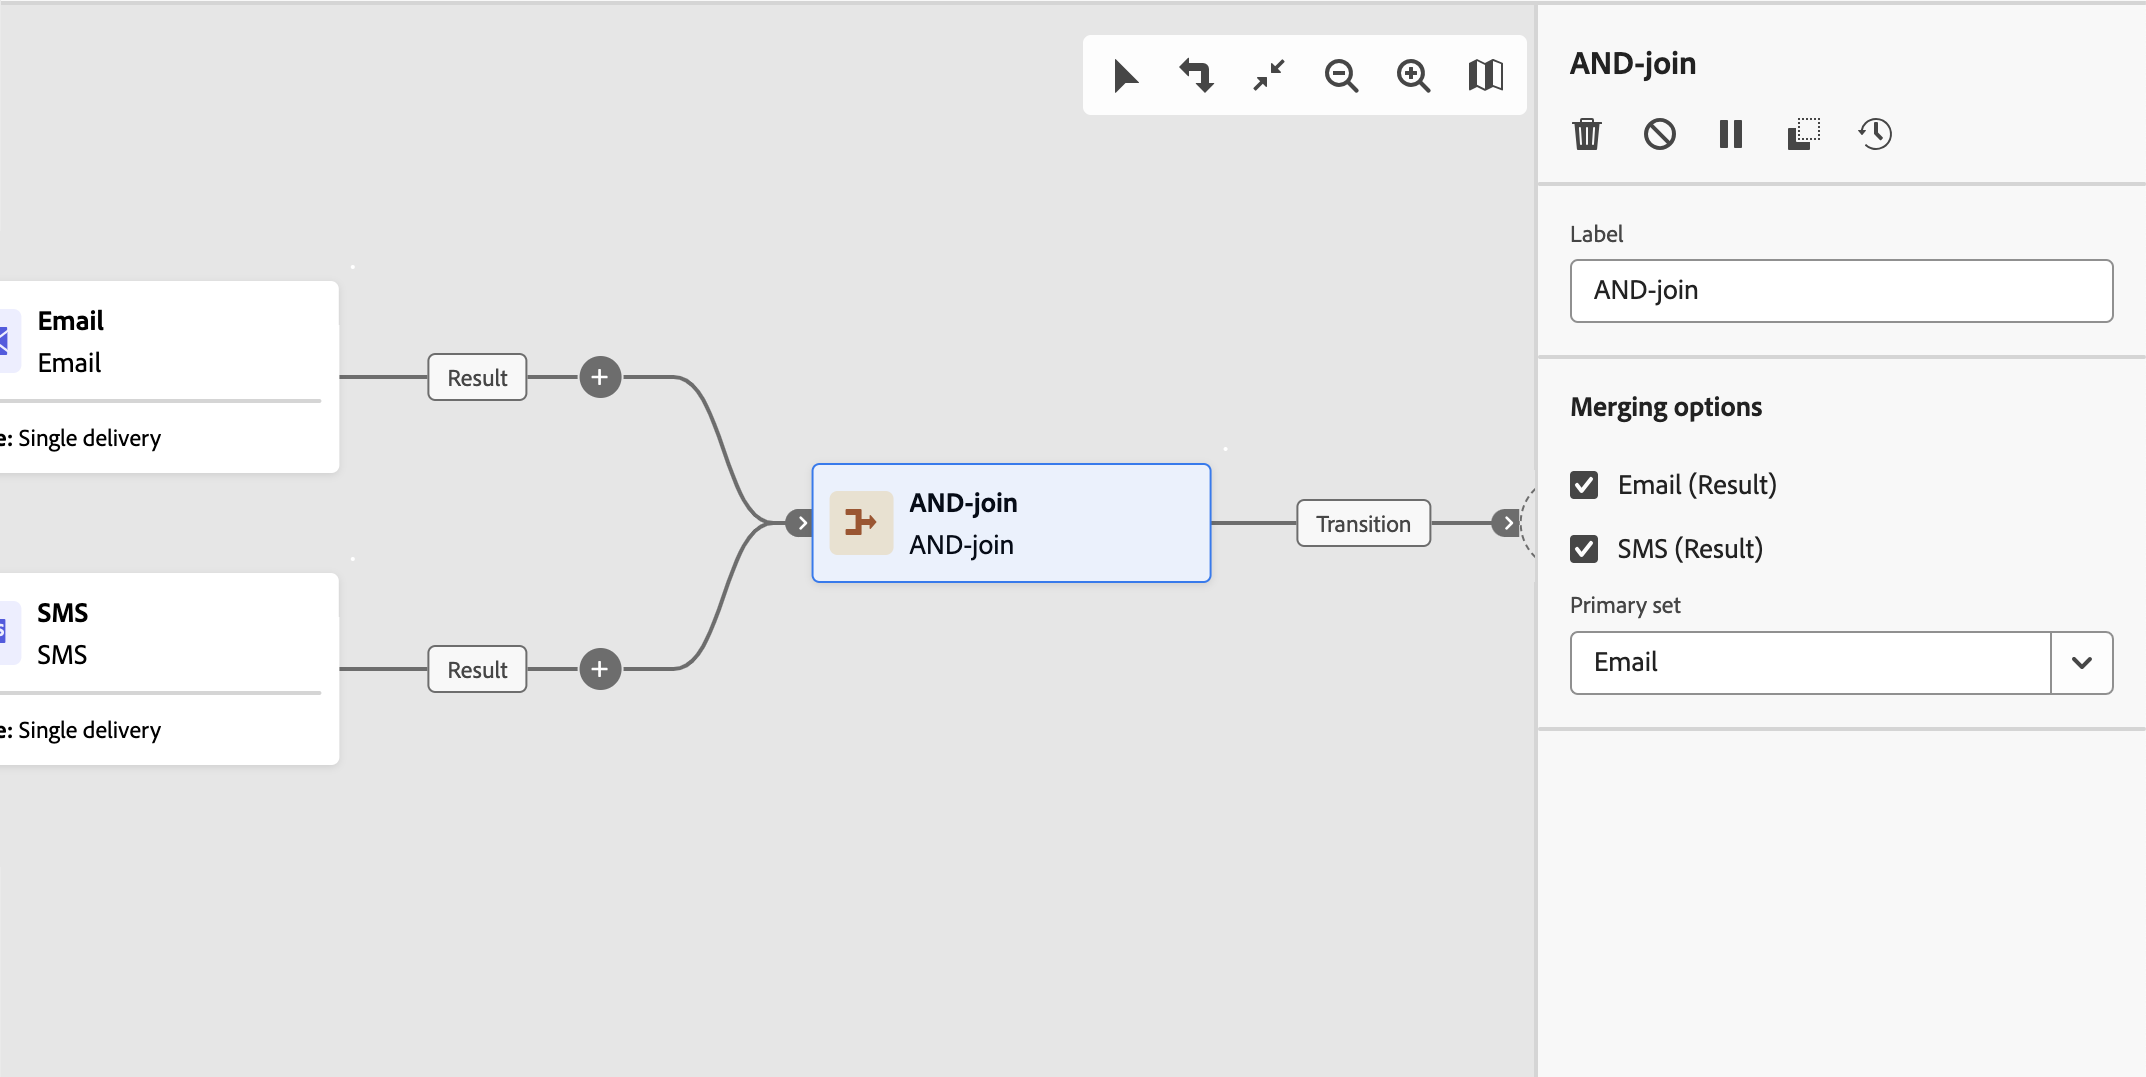
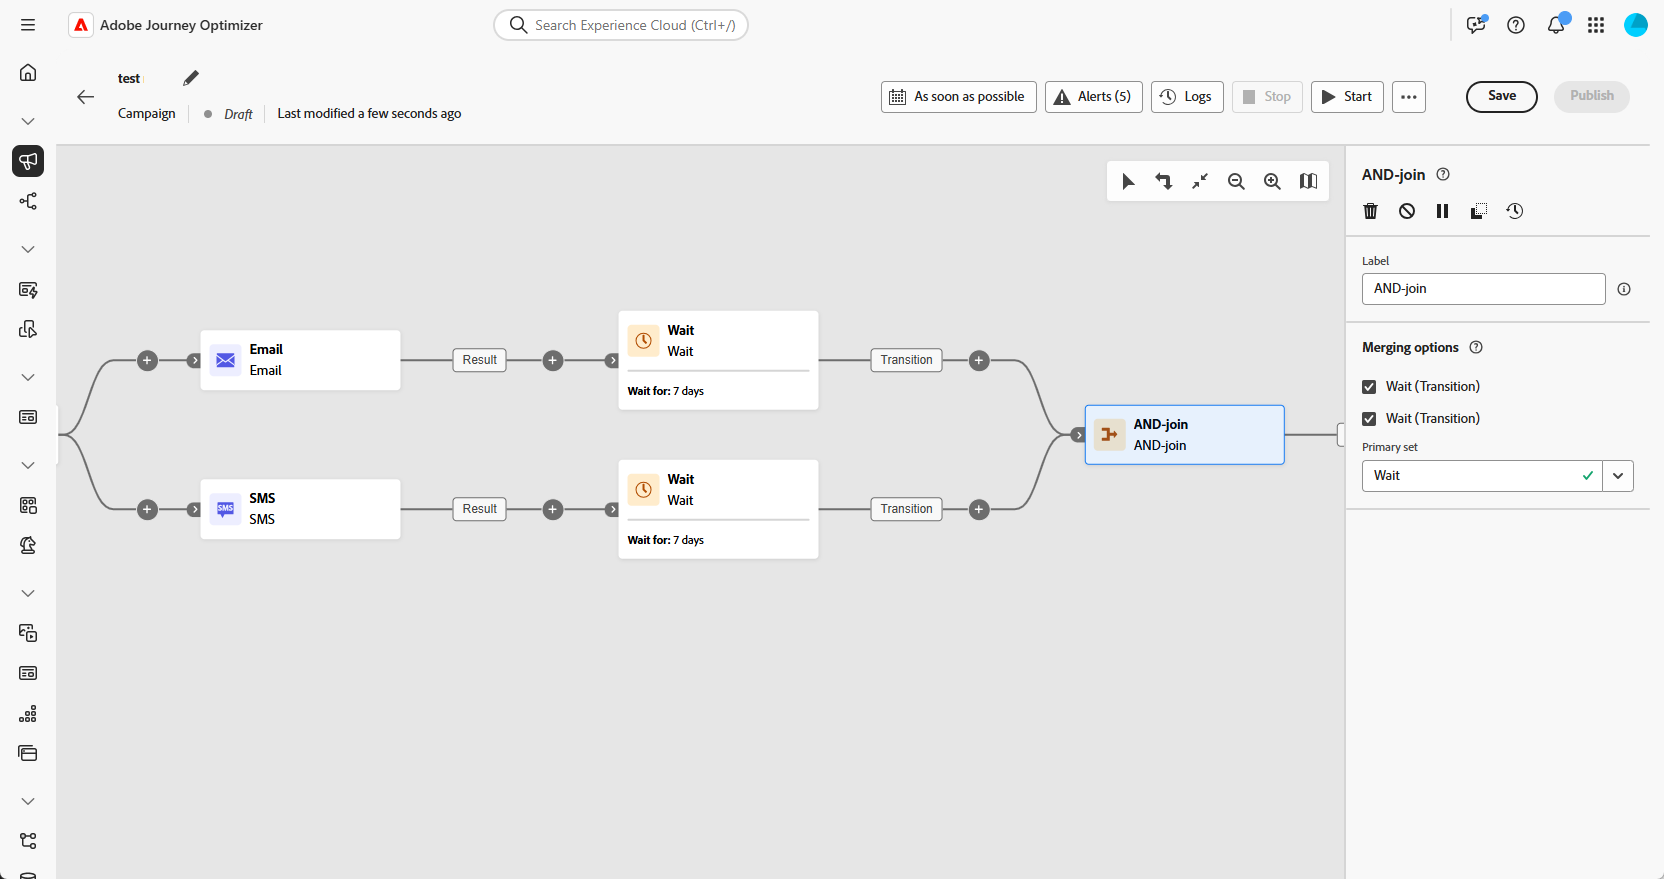
update and join activity

diff --git a/help/using/orchestrated/activities/and-join.md b/help/using/orchestrated/activities/and-join.md
@@ -42,13 +42,16 @@ Follow these steps to configure the **AND-join** activity:
 
 ![](../assets/workflow-andjoin.png)
 
-1. Add multiple activities such as channel activities to form at least two different execution branches.
-1. Add an **AND-join** activity to any of the branches.
-1. In the **Merging options** section, check all the previous activities you wish you join. 
-1. In the **Primary set** drop-down, choose which inbound transition population you want to keep. The outbound transition can only contain one of the inbound transition populations.
+1. Add multiple activities, such as channel activities, to create at least two distinct execution branches.
+
+1. Insert an **AND-join** activity into one of the branches.
+
+1. Under the **Merging options** section, select all preceding activities you want to join.
+ 
+1. From the **Primary set** drop-down, choose the inbound transition population you want to retain.
 
 ## Example{#and-join-example}
 
-The following example shows two orchestrated campaign branches with an email and SMS delivery. The AND-join will trigger when both inbound transitions are enabled. The push notifications will then be sent only after both deliveries are finished. 
+This example illustrates two coordinated campaign branches, each featuring an email delivery, one targeting gold members and the other silver. The **AND-join** activates once both incoming transitions are triggered, and the SMS will be sent only after both email deliveries are completed, following a 7-day delay.
 
 ![](../assets/workflow-andjoin-example.png){zoomable="yes"}
